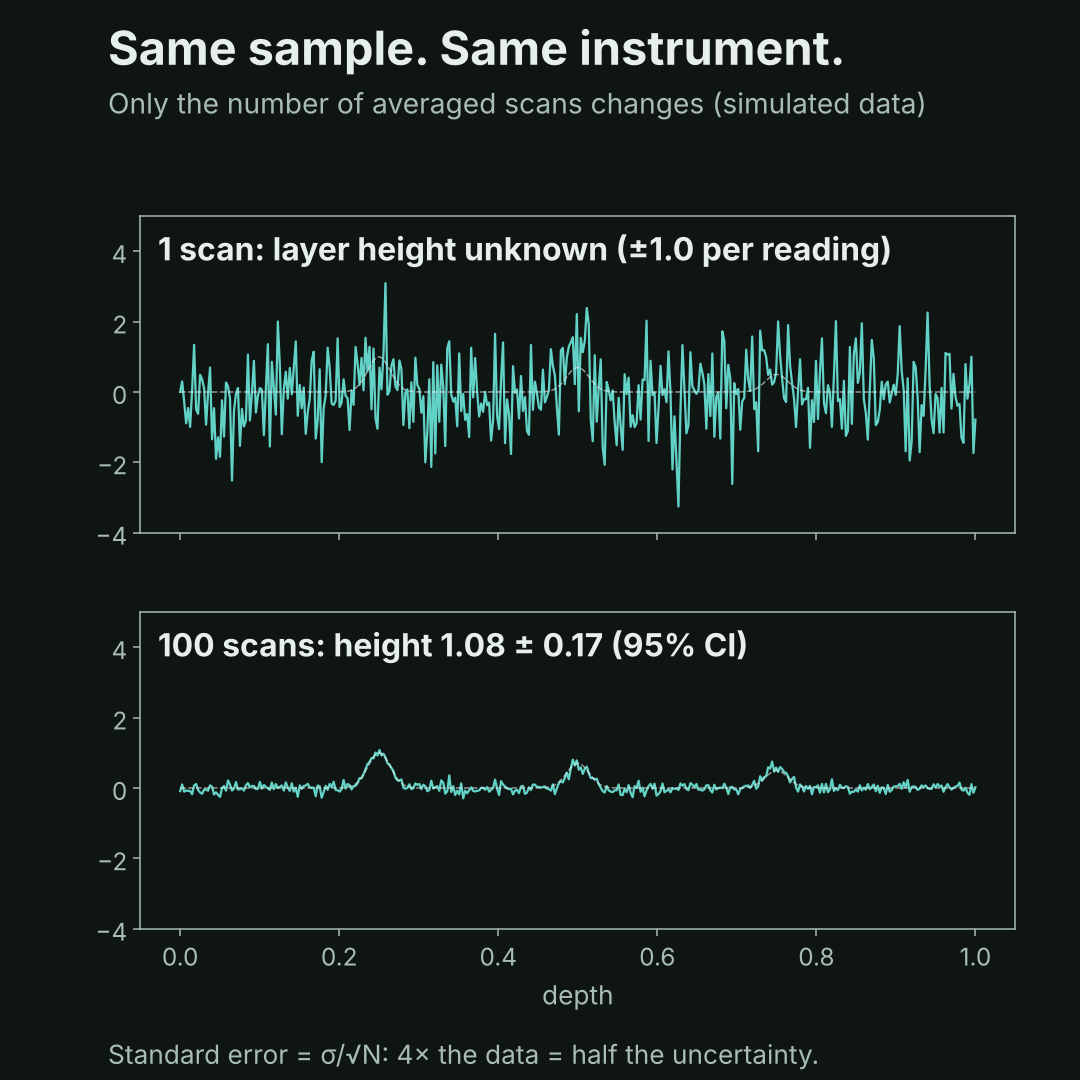
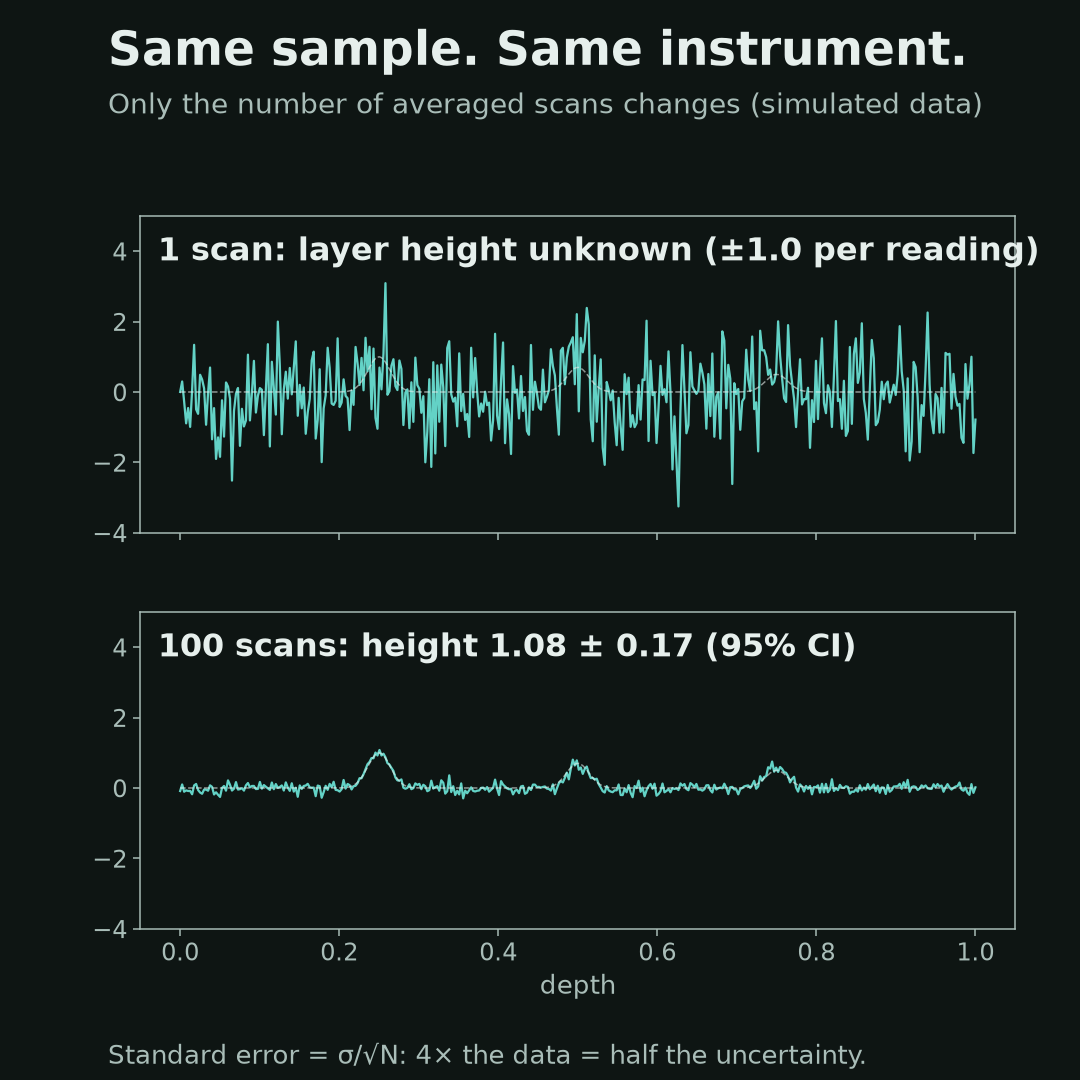
changing python file to ignore matplotlib error

diff --git a/01-standard-error/standard_error.py b/01-standard-error/standard_error.py
@@ -7,6 +7,7 @@ from scipy import stats
 import matplotlib
 matplotlib.use("Agg")
 import matplotlib.pyplot as plt
+from matplotlib import font_manager
 from matplotlib.animation import FuncAnimation, PillowWriter
 
 rng = np.random.default_rng(7)  # fixed seed so the result is repeatable
@@ -54,7 +55,9 @@ frames = list(range(2, 11)) + list(range(12, 31, 2)) + list(range(35, 101, 5)) +
 
 # --- 5. Drawing ---
 BG, FG, ACC, DIM, WARM = "#0E1513", "#E6EFEC", "#63D2C6", "#A9BDB8", "#F2B866"
-plt.rcParams["font.family"] = ["Inter", "DejaVu Sans"]  # Inter if installed, otherwise DejaVu
+# Use the Inter font if it is installed, otherwise matplotlib's default font
+installed_fonts = {f.name for f in font_manager.fontManager.ttflist}
+plt.rcParams["font.family"] = "Inter" if "Inter" in installed_fonts else "DejaVu Sans"
 out = str(Path(__file__).parent) + "/"  # save the images next to this script
 
 def style(ax):
